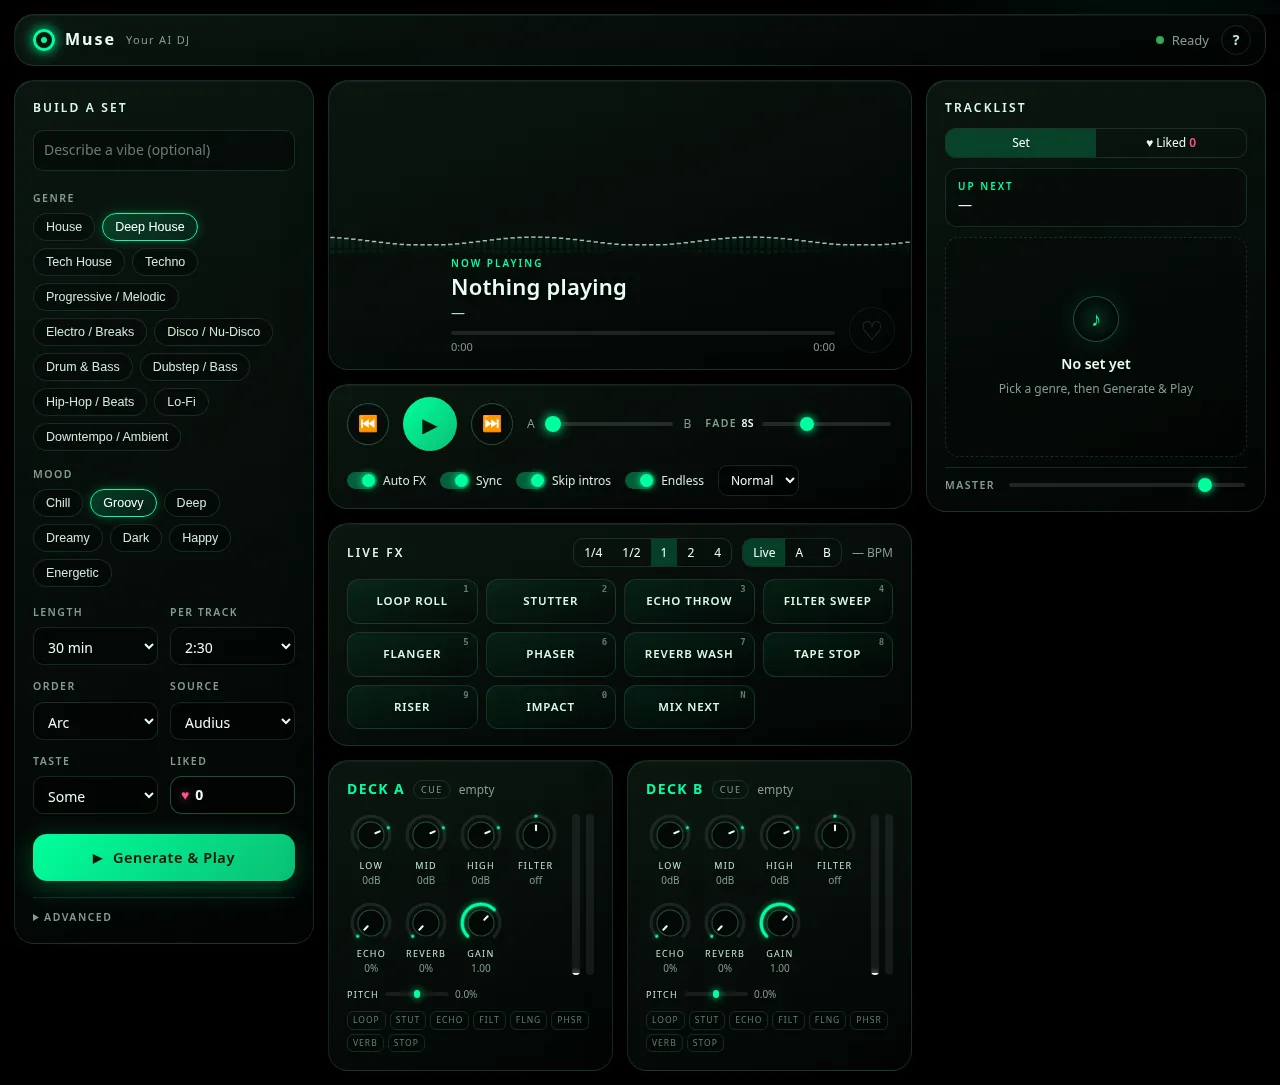
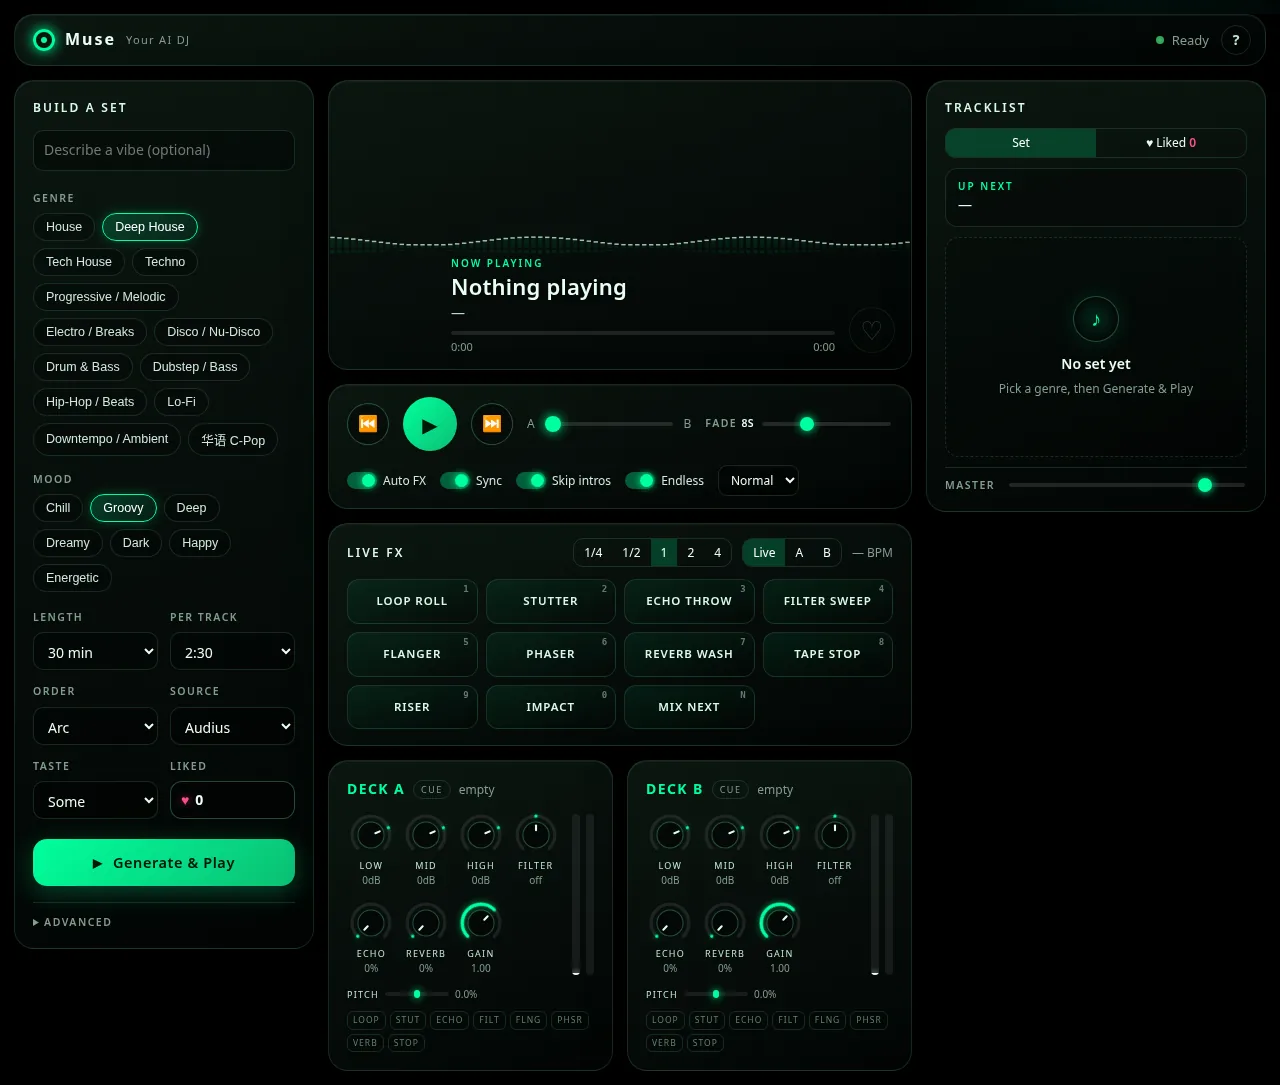
Add 华语 C-Pop genre: Chinese hits via Kugou, relaxed chart scoring, steering + likes support

Changed region(s): [[0.0312, 0.3954, 0.2188, 0.8516], [0.1562, 0.3954, 0.1875, 0.4258]]

diff --git a/app.js b/app.js
@@ -50,6 +50,9 @@ const GENRES = {
                   seeds: ['lofi beats', 'jazzhop', 'tape', 'dusty', 'chillhop', 'vinyl', 'rainy', 'mellow'] },
   'downtempo':  { label: 'Downtempo / Ambient', zh: '氛围', bpm: [80, 112],
                   seeds: ['downtempo', 'trip hop', 'organic', 'chillout', 'balearic', 'dub', 'ethereal', 'ambient'] },
+  // Chinese-language pop: popular hits wanted (hits: anti-chart scoring relaxed), dug from Chinese sources first (cn: true)
+  'cpop':       { label: '华语 C-Pop', zh: '华语流行 · R&B · 国风 · 粤语 · 说唱', bpm: [66, 132], hits: true, cn: true,
+                  seeds: ['c-pop', 'mandopop', 'chinese pop', 'cantopop', 'chinese r&b', 'guofeng', 'chinese hip hop', '华语'] },
 };
 /* ---------- curated crate: moods ---------- */
 const MOODS = {
@@ -73,6 +76,7 @@ const PROMPT_MAP = [
   [/chill|relax|mellow|放松|休闲|轻松|安静/i, 'm', 'chill'], [/groov|funky|律动|摇摆/i, 'm', 'groovy'], [/deep|late.?night|深夜|深邃|午夜/i, 'm', 'deep'],
   [/dream|ethereal|梦|空灵/i, 'm', 'dreamy'], [/dark|暗|黑暗|阴郁/i, 'm', 'dark'], [/happy|sunny|summer|uplift|快乐|开心|阳光|夏天/i, 'm', 'happy'],
   [/energ|hard|peak|rave|party|燃|嗨|派对|激烈|蹦迪/i, 'm', 'energetic'],
+  [/华语|中文|国语|c-?pop|mandopop|cantopop|粤语|国风|古风|中国风|chinese/i, 'g', 'cpop'],
 ];
 
 /* ---------- taste filter ---------- */
@@ -96,17 +100,17 @@ function tasteScore(t, ctx) {
   else if (lp < 2) s -= 0.2;
   else if (lp <= 4.7) s += 1;        // ~100 .. 50k plays: the "deeper cuts" sweet spot
   else if (lp <= 5.6) s += 0.2;
-  else s -= 1.4;                     // > ~400k: viral / chart territory
+  else if (!ctx.hits) s -= 1.4;      // > ~400k: viral / chart territory (wanted for hit genres like 华语)
   const love = ((sg.likes || 0) + 1.5 * (sg.reposts || 0)) / (p + 25);
   s += clamp(love * 18, 0, 1.3);     // engagement ratio = listeners actually liked it
   const f = sg.followers || 0;
-  if (f > 400000) s -= 0.7; else if (f < 60000) s += 0.3;
+  if (f > 400000) { if (!ctx.hits) s -= 0.7; } else if (f < 60000) s += 0.3;
   let hits = 0; for (const k of ctx.seedTerms) if (blob.includes(k)) hits++;
   s += Math.min(1.6, hits * 0.4);
   if (ctx.genreSet.has(t.genre)) s += 0.8; else if (ctx.genreSet.size) s -= 0.6;
   if (ctx.moodSet.size && t.mood) s += ctx.moodSet.has(t.mood) ? 0.7 : -0.15;
   const aname = sg.artistName ?? t.artist ?? '';
-  if (MAINSTREAM.test(title) || MAINSTREAM.test(aname)) s -= 1.3;   // chart bait / pop re-rubs
+  if (!ctx.hits && (MAINSTREAM.test(title) || MAINSTREAM.test(aname))) s -= 1.3;   // chart bait / pop re-rubs
   const uname = aname.toLowerCase();
   if (ctx.genrePhrases.some(gp => uname.includes(gp)) || /music|records? ?label|beats|official/i.test(uname) && /\d{3,}/.test(uname)) s -= 0.8;   // channel-style uploaders
   if (SOFT_PENALTY.test(title) && !ctx.allowEdits) s -= 0.35;
@@ -190,6 +194,7 @@ async function aiExpand(genres, moods, prompt) {
 }
 
 /* ---------- crate digging ---------- */
+const CN_PREFERRED = 'kugou';   // Chinese source used for 华语 when the picked source isn't Chinese
 function parsePrompt(text) {
   const g = new Set(), m = new Set(); let rest = text || '';
   for (const [re, kind, id] of PROMPT_MAP) if (re.test(rest)) { (kind === 'g' ? g : m).add(id); }
@@ -199,7 +204,8 @@ function parsePrompt(text) {
   return { g: [...g], m: [...m], words: words.slice(0, 4).map(w => w.toLowerCase()) };
 }
 
-async function digCrates({ genres, moods, prompt, need, source, onStatus, taste }) {
+async function digCrates(args) {
+  let { genres, moods, prompt, need, source, onStatus, taste } = args;
   const P = parsePrompt(prompt);
   const prov = Providers.resolve(source);
   if (!prov) throw new Error('no music provider registered');
@@ -210,13 +216,24 @@ async function digCrates({ genres, moods, prompt, need, source, onStatus, taste 
   if (TP && !genres.length && !moods.length && !String(prompt || '').trim()) genres = T.genresFor(prov, TP);   // nothing picked: start from what you liked
   if (!genres.length) { const s = new Set(); moods.forEach(m => (MOOD_FALLBACK_GENRES[m] || []).slice(0, 2).forEach(g => s.add(g))); genres = s.size ? [...s] : ['deep-house']; }
   if (!moods.length && !genres.length) moods = ['groovy'];
+  // Chinese genres (华语) want a Chinese catalogue: try the picked source if it is one (e.g. QQ in mainland China), then
+  // Kugou (plays worldwide); if both come back empty, carry on with the picked source (Audius: Chinese seed terms).
+  if (genres.some(g => GENRES[g].cn) && !args._cn) {
+    const tries = [prov.keywords ? prov.id : null, CN_PREFERRED].filter((x, i, a) => x && Providers.get(x) && a.indexOf(x) === i);
+    let best = null;
+    for (const id of tries) {
+      try { const r = await digCrates({ ...args, genres, moods, source: id, _cn: true }); if (r.tracks.length >= Math.min(need, 4)) return r; if (r.tracks.length && (!best || r.tracks.length > best.tracks.length)) best = r; }
+      catch (e) { console.warn(`${Providers.get(id).name}: no Chinese tracks`, e); }
+    }
+    if (best) return best;   // a short Chinese set beats none; endless mode keeps digging
+  }
   const aiWords = await aiExpand(genres, moods, prompt);
   const srcGenres = Providers.mapGenres(prov, genres);   // provider's own genre / mood filter vocabulary
   const srcMoods = Providers.mapMoods(prov, moods);
   const moodWords = moods.flatMap(m => MOODS[m].words);
   const seedTerms = new Set([...genres.flatMap(g => GENRES[g].seeds), ...moodWords, ...P.words, ...aiWords].map(s => s.toLowerCase()));
   const bpmRanges = genres.map(g => GENRES[g].bpm); BPM_HOME = bpmRanges;
-  const ctx = { seedTerms, bpmRanges, genreSet: new Set(srcGenres), moodSet: new Set(srcMoods), allowEdits: genres.includes('disco'),
+  const ctx = { hits: genres.some(g => GENRES[g].hits), seedTerms, bpmRanges, genreSet: new Set(srcGenres), moodSet: new Set(srcMoods), allowEdits: genres.includes('disco'),
     genrePhrases: [...new Set([...srcGenres, 'lofi', 'lo-fi', 'deep house', 'techno', 'house music', 'hip hop', 'drum and bass'].map(x => x.toLowerCase()))].filter(x => x.length > 3) };
   const info = { genres, moods };
 
@@ -305,25 +322,40 @@ async function digSimple(prov, genres, moods, words, need, onStatus, tx = null) 
   const full = prov.capabilities.fullTrack;
   onStatus(`Searching ${prov.name}…`);
   if (prov.init) await prov.init();
-  const qs = [], KW = prov.keywords;
+  const qs = [], KW = prov.keywords, gOf = new Map();   // gOf: query -> app genre that asked for it
+  const add = (q, g) => { q = q.trim(); if (!q || gOf.has(q)) return; gOf.set(q, g); qs.push(q); };
   if (KW && KW.genres) {   // provider vocabulary (e.g. Chinese + English terms for CN platforms)
-    for (const g of genres) { const terms = shuffle(KW.genres[g] || [GENRES[g].label]); terms.slice(0, 3).forEach((s, i) => qs.push(s + (moods[0] && i === 1 && KW.moods && KW.moods[moods[0]] ? ' ' + pick(KW.moods[moods[0]]) : ''))); }
-  } else for (const g of genres) { const G = GENRES[g]; shuffle(G.seeds).slice(0, 3).forEach(s => qs.push(s + (moods[0] ? ' ' + pick(MOODS[moods[0]].words) : ''))); }
-  words.slice(0, 3).forEach(w => qs.push(w));
-  if (tx) tx.T.seedQueries(tx.TP, tx.taste, shuffle).forEach(q => qs.push(q));
-  let res = (await pool(qs, 3, q => prov.search(q))).flat().filter(Boolean);
+    for (const g of genres) {
+      const terms = shuffle(KW.genres[g] || [GENRES[g].label]), fl = KW.flavors && KW.flavors[g], artists = KW.artists && KW.artists[g];
+      if (fl && moods.length) { moods.forEach(m => shuffle(fl[m] || []).slice(0, 2).forEach(q => add(q, g))); terms.slice(0, 2).forEach(q => add(q, g)); }
+      else terms.slice(0, GENRES[g].hits ? 4 : 3).forEach((t, i) => add(t + (moods[0] && i === 1 && !GENRES[g].hits && KW.moods && KW.moods[moods[0]] ? ' ' + pick(KW.moods[moods[0]]) : ''), g));
+      if (artists) shuffle(artists).slice(0, 6).forEach(q => add(q, g));   // hit genres: popular artists' catalogues
+    }
+  } else for (const g of genres) { const G = GENRES[g]; shuffle(G.seeds).slice(0, 3).forEach(s => add(s + (moods[0] ? ' ' + pick(MOODS[moods[0]].words) : ''), g)); }
+  words.slice(0, 3).forEach(w => add(w, null));
+  if (tx) tx.T.seedQueries(tx.TP, tx.taste, shuffle).forEach(q => add(q, null));
+  const tag = (q, list) => { const g = gOf.get(q); if (g) list.forEach(t => { if (!t.genre) t.genre = GENRES[g].label; t._g = g; }); return list; };
+  let res;
+  if ((prov.capabilities.searchConcurrency || 3) === 1) {   // throttling source: one search at a time, stop once the crate is deep enough
+    res = []; const enough = need * (genres.some(g => GENRES[g].hits) ? 6 : 4);
+    for (const q of qs) { try { res.push(...tag(q, await prov.search(q))); } catch (e) { } if (res.filter(t => t.playable !== false).length >= enough) break; }
+  } else res = (await pool(qs, 3, q => prov.search(q).then(list => tag(q, list)))).flat().filter(Boolean);
   if (tx) res = res.concat(await digSimilar(prov, tx.likes, tx.TM, onStatus)).filter(t => !tx.TP.ids.has(tx.T.Likes.key(t)));
   const beatsy = genres.some(g => g === 'hiphop' || g === 'lofi' || g === 'downtempo');
   const offGenre = /^(rock|pop|soundtrack|country|singer\/songwriter|alternative|christian.*|children.*|holiday|vocal|classical|latino|k-pop|j-pop|metal|easy listening)$/i;
   const lazy = typeof prov.resolveStream === 'function';   // stream URL fetched per track (signed / expiring / maybe not free)
-  const m = new Map(); res.forEach(t => { if (t.playable !== false && (t.url || lazy) && (t.fullDur ?? t.dur ?? 0) > 120 && !m.has(t.id) && !HARD_REJECT.test(t.title || '') && !MAINSTREAM.test((t.artist || '') + ' ' + t.title) && (beatsy || !offGenre.test(t.genre || ''))) m.set(t.id, t); });
+  const NOT_ORIGINAL = /\bdj\b|dj版|remix|伴奏|纯音乐|钢琴版|八音盒|合唱版|群星|铃声|片段|抖音|翻唱|翻自|\bcover\b|加速|降调|0\.\d+x|\b(slowed|sped)\b|女版|男版|live版|串烧/i;   // hit genres: originals only
+  const fanUpload = t => { const A = KW && KW.artists && KW.artists[t._g]; return /《.+》/.test(t.title) || !!(A && A.some(a => t.title.includes(a) && !(t.artist || '').includes(a))); };   // "<artist> (song)" re-uploads
+  const m = new Map(); res.forEach(t => { if (t._g && GENRES[t._g].hits && (NOT_ORIGINAL.test(t.title + ' ' + (t.artist || '')) || fanUpload(t))) return; if (t.playable !== false && (t.url || lazy) && (t.fullDur ?? t.dur ?? 0) > 120 && !m.has(t.id) && !HARD_REJECT.test(t.title || '') && !MAINSTREAM.test((t.artist || '') + ' ' + t.title) && (beatsy || !offGenre.test(t.genre || ''))) m.set(t.id, t); });
   const per = new Map(), out = [];
   let order = shuffle([...m.values()]);
+  if (genres.some(g => GENRES[g].hits)) order = order.map(t => ({ t, s: (t._g && GENRES[t._g].hits ? Math.log10((t.plays || 0) + 1) * 0.4 : 2) + rng() * 1.5 })).sort((a, b) => b.s - a.s).map(x => x.t);   // popular first, with variety
   if (tx) order = order.map(t => ({ t, s: tx.TM.w * tx.T.similarity(t, tx.TP) + rng() * 0.6 })).sort((a, b) => b.s - a.s).map(x => x.t);   // lean toward the ♥ profile
+  const hitsWanted = genres.some(g => GENRES[g].hits);   // hit catalogues are partly paid: try more picks
   if (lazy) {   // confirm each pick actually has a free stream before it enters the set
-    const picks = []; for (const t of order) { const c = per.get(t.artistId) || 0; if (c) continue; per.set(t.artistId, 1); picks.push(t); }
+    const picks = []; for (const t of order) { const c = per.get(t.artistId) || 0; if (c >= (hitsWanted ? 2 : 1)) continue; per.set(t.artistId, c + 1); picks.push(t); }   // hit genres: up to 2 per artist
     let i = 0, tried = 0;
-    const worker = async () => { while (out.length < need && i < picks.length && tried < need * 4) { const t = picks[i++]; tried++;
+    const worker = async () => { while (out.length < need && i < picks.length && tried < need * (hitsWanted ? 6 : 4)) { const t = picks[i++]; tried++;
       try { await prov.resolveStream(t); if (t.url && t.playable !== false && out.length < need) out.push(finalizeTrack(t)); } catch (e) { } } };
     await Promise.all(Array.from({ length: prov.capabilities.resolveConcurrency || 4 }, worker));
     if (!out.length && picks.length) throw new Error(prov.name + ': no free streams available here');
@@ -1480,6 +1512,7 @@ function draw() {
 
 /* ---- init ---- */
 function init() {
+  Providers.list().forEach(p => { if (p.keywords) for (const g in GENRES) if (!p.genreFilters[g]) p.genreFilters[g] = [GENRES[g].label]; });
   buildChips(); buildSources(); buildPads(); loadOpts(); renderList(); bindLikes();
   buildDeckShell($('#deckA'), 'A'); buildDeckShell($('#deckB'), 'B');
   if (!Providers.usable().some(p => p.id === opt('source').value)) opt('source').value = Providers.defaultId;   // stale / removed provider id

diff --git a/providers/kugou.js b/providers/kugou.js
@@ -3,8 +3,8 @@
  *  - stream:  m.kugou.com/app/i/getSongInfo.php?cmd=playInfo (JSONP) -> https://sharefs.kugou.com/… mp3
  *             The audio CDN answers with Access-Control-Allow-Origin: * and supports Range, so the mixer can
  *             analyse and route it through Web Audio like any other source.
- *  - only what Kugou serves for free to an anonymous listener: VIP-only songs (Privilege 10 / no URL /
- *    pay_type set) are skipped, no login, no paid quality tiers. Standard 128 kbps only.
+ *  - only what Kugou serves for free to an anonymous listener: paid songs (music-pack flag in search, or
+ *    no URL / pay_type / privilege 10 in play info) are skipped, no login, no paid quality tiers. Standard 128 kbps only.
  *  - no BPM / key metadata: the app's in-browser analysis fills tempo and beat phase ('simple' crate). */
 (function () {
   'use strict';
@@ -14,13 +14,16 @@
 
   const Kugou = {
     id: 'kugou', name: 'Kugou', label: 'Kugou 酷狗', hint: 'Free full tracks · no account', fallback: 'audius',
-    capabilities: { fullTrack: true, hasBpmKey: false, rangeRequests: true, filters: false, trending: false, crate: 'simple', resolveConcurrency: 2, rateLimited: true },
+    capabilities: { fullTrack: true, hasBpmKey: false, rangeRequests: true, filters: false, trending: false, crate: 'simple', resolveConcurrency: 2, searchConcurrency: 1, rateLimited: true },   // parallel searches come back empty,
     keywords: CN.KEYWORDS,
+    stats: { free: 0, paid: 0, noAnswer: 0 }, _lastSearch: 0,   // resolve outcomes (debugging / tests)
     async search(term, { limit = 30 } = {}) {
       const u = 'https://songsearch.kugou.com/song_search_v2?keyword=' + encodeURIComponent(term) + `&page=1&pagesize=${limit}&platform=WebFilter&format=jsonp`;
-      let r = await jsonp(u, { timeout: 10000 });
-      // the search API occasionally answers an empty page under load: one quiet retry
-      if (!(r && r.data && r.data.lists && r.data.lists.length)) { await P.net.sleep(600 + Math.random() * 600); r = await jsonp(u, { timeout: 10000 }).catch(() => r); }
+      // the search API answers empty pages when hit in bursts: keep searches ~0.5 s apart, retry an empty page once
+      const gap = 500 - (Date.now() - this._lastSearch); if (gap > 0) await P.net.sleep(gap);
+      this._lastSearch = Date.now();
+      let r = await jsonp(u, { timeout: 10000 }).catch(() => null);
+      if (!(r && r.data && r.data.lists && r.data.lists.length)) { await P.net.sleep(1200 + Math.random() * 600); this._lastSearch = Date.now(); r = await jsonp(u, { timeout: 10000 }).catch(() => r); }
       return ((r && r.data && r.data.lists) || []).filter(s => s && s.FileHash).map(s => this.toTrack(s, term));
     },
     getStreamUrl(track) { return track.url || ''; },
@@ -34,6 +37,7 @@
       // no answer / no URL without a "paid" flag = usually throttling after a burst: back off once and ask again
       if (!(r && r.url) && !(r && (r.pay_type || (r.privilege | 0) >= 10))) { await P.net.sleep(900 + Math.random() * 900); r = await ask(); }
       const url = r && r.url ? CN.https(r.url) : '';
+      this.stats[r && r.url && !r.pay_type && (r.privilege | 0) < 10 ? 'free' : r && (r.pay_type || (r.privilege | 0) >= 10) ? 'paid' : 'noAnswer']++;
       if (!url || r.pay_type || (r.privilege | 0) >= 10) { if (r && (r.url || r.pay_type || (r.privilege | 0) >= 10)) cache.set(track.hash, { bad: true, at: Date.now() }); track.playable = false; track.url = ''; throw new Error('Kugou: not free to stream'); }
       track.url = url; track.alt = (r.backup_url && r.backup_url[0]) ? CN.https(r.backup_url[0]) : null; track._resolvedAt = Date.now();
       if (r.timeLength) track.dur = +r.timeLength;
@@ -48,8 +52,10 @@
       return P.normalize({ src: 'kugou', id: 'kg' + String(s.FileHash).toLowerCase(), hash: s.FileHash, title, artist: CN.stripTags(s.SingerName) || 'Unknown',
         artistId: singer.id || CN.stripTags(s.SingerName), art: img.replace('{size}', '400'), artSmall: img.replace('{size}', '150'),
         dur: +s.Duration || 0, preview: false, bpm: null, key: null, genre: '', mood: '', tags: [term, s.trans_param && s.trans_param.language].filter(Boolean).join(', '),
-        url: '', link: 'https://www.kugou.com/yy/html/search.html#searchType=song&searchKeyWord=' + encodeURIComponent(title), plays: 0, prior: CN.prior(term),
-        playable: (s.Privilege | 0) < 10, signals: { tags: term || '' } });
+        url: '', link: 'https://www.kugou.com/yy/html/search.html#searchType=song&searchKeyWord=' + encodeURIComponent(title), plays: +s.OwnerCount || 0, prior: CN.prior(term),
+        // musicpack_advance = 1: needs Kugou's music pack (paid); Privilege 5 is almost always unavailable too.
+        // Filtering here saves a play-info request per paid song; resolveStream() still has the final say.
+        playable: !(s.trans_param && s.trans_param.musicpack_advance === 1) && (s.Privilege | 0) !== 5, signals: { tags: term || '' } });
     },
   };
   P.register(Kugou);

diff --git a/providers/cn-common.js b/providers/cn-common.js
@@ -18,6 +18,20 @@
       'hiphop':      ['instrumental hip hop', '嘻哈 伴奏', 'boom bap', 'jazz rap'],
       'lofi':        ['lofi', 'lo-fi', '低保真', 'lofi 学习', 'chillhop'],
       'downtempo':   ['downtempo', 'chillout', '氛围音乐', 'trip hop', 'ambient'],
+      'cpop':        ['华语流行', '华语 热歌', '华语金曲', '华语 经典', '华语R&B', '国风', '粤语 经典', '华语说唱', '民谣', '华语 新歌', '华语 原创', '综艺 live'],
+    },
+    // 华语 sub-flavours picked by mood (one chip, mood chips choose the flavour)
+    flavors: {
+      'cpop': {
+        'chill': ['华语 抒情', '民谣', '华语 治愈'], 'groovy': ['华语R&B', '华语 R&B 律动', '华语 放克'], 'deep': ['粤语 经典', '华语 深情', '粤语 抒情'],
+        'dreamy': ['国风', '古风', '中国风'], 'dark': ['华语说唱', '中文说唱', '华语 摇滚'], 'happy': ['华语 甜歌', '华语流行', '华语 热歌'],
+        'energetic': ['华语说唱', '华语 摇滚', '华语 热歌'],
+      },
+    },
+    // popular artists' catalogues for hit-seeking genres (search terms only; what plays is whatever the platform serves free)
+    artists: {
+      'cpop': ['周杰伦', '林俊杰', '陈奕迅', '邓紫棋', '薛之谦', '李荣浩', '毛不易', '周深', '王菲', '孙燕姿', '五月天', '蔡依林', '张学友', '汪苏泷',
+        '莫文蔚', '陶喆', '王力宏', '田馥甄', '张惠妹', '华晨宇', '许嵩', '李健', '赵雷', '朴树', '告五人', '单依纯', '张杰', '梁静茹', '方大同', '容祖儿', '杨千嬅', '刘惜君'],
     },
     moods: {
       'chill': ['chill', '放松'], 'groovy': ['groove', '律动'], 'deep': ['deep', '深夜'], 'dreamy': ['dreamy', '梦幻'],

diff --git a/providers/registry.js b/providers/registry.js
@@ -74,6 +74,7 @@
     crate: 'simple',        // 'scored' = rich popularity signals -> full taste filter + trending top-up;
                             // 'simple' = shuffle + one-per-artist dig with basic reject rules (preview catalogues)
     rateLimited: false,     // informational: source is known to answer HTTP 429 under bursts
+    searchConcurrency: 3,   // parallel search() calls in a 'simple' crate dig
     resolveConcurrency: 4,  // parallel resolveStream() calls while a 'simple' crate confirms picks (lower for throttling sources)
   };
 

diff --git a/README.md b/README.md
@@ -22,6 +22,7 @@
 - **像真人 DJ 一样 ride 参数**：两次转场之间按乐句做克制的 EQ、滤波、增益、回声 / 混响动作；旋钮、电平、推子、音调和效果灯全部实时动画显示，随时可以手动接管（拖动旋钮，双击复位）。
 - **现场效果垫**：按住 / 点按或键盘 1–9、0、N 触发，效果标签带进度条，垫子随节拍闪动。
 - **♥ 红心与口味**：给喜欢的歌点 ♥，之后的歌单会向你的口味靠拢（关 / 适中 / 强）；支持导出 / 导入。
+- **华语 C-Pop 类别**：华语流行、R&B、国风、粤语、说唱的热门歌曲（用情绪选子风格），优先从酷狗挖歌（海外也能播），对这个类别放宽“反爆款”规则；只选原唱，排除 DJ 版、伴奏和翻唱。
 - **播放中换风格**：中途切换曲风 / 情绪，约 1.5 秒后自动重新挖歌，保留当前和下一首，用 BRIDGE 过渡曲平滑转到新风格。
 - **多音源**：
 
@@ -68,6 +69,7 @@ python3 -m http.server 8000      # 打开 http://localhost:8000
 
 - Audius 是独立音乐人平台，不是商业榜单；音质和风格参差不齐，频繁生成可能被限流。
 - 拍点和乐句对齐是估算，偶尔会有转场漂移或没落在乐句上。
+- 华语大热歌曲很多是酷狗付费歌曲，会被跳过；能播的是平台免费提供的那部分。连续多次生成时酷狗可能暂时限流，歌单会变短（无限模式会继续补歌）。
 - 国内平台没有 BPM / 调性数据（由浏览器自行测量），搜索结果相关性一般，可能混入"DJ 版"流行歌。
 - 网易云经代理访问时，平台按代理 IP 判断地区，海外代理只能播放部分歌曲。
 

diff --git a/docs/DETAILS.md b/docs/DETAILS.md
@@ -59,6 +59,13 @@ If a source finds nothing playable, the set comes from Audius instead. No logins
   One track per artist still applies. If no genre/mood/prompt is picked, the set starts from your most-liked genres.
 - All scripted and deterministic. Works through the provider interface, so it carries over to new sources.
 
+## 华语 / C-Pop
+One genre chip for Chinese-language pop hits; the mood picks the flavour (chill → ballads/folk, groovy → R&B, deep → Cantonese classics,
+dreamy → 国风, dark/energetic → rap/rock, happy → pop). Hits are wanted here, so the anti-chart penalties are off for it. With a
+non-Chinese source selected, the dig goes to Kugou (QQ first if QQ is the source); originals only (no DJ edits, karaoke, covers,
+re-uploads). Kugou's paid songs (music-pack flag) are skipped before any request. If Kugou finds nothing, Audius is searched
+with Chinese terms.
+
 ## Steering a playing set (换风格不用重来)
 Change the Genre / Mood chips while a set is playing — no need to press Generate. After ~1.5 s Muse digs the
 new selection in the background ("Shifting to Tech House…"), keeps the playing track and the already-cued next

diff --git a/providers/README.md b/providers/README.md
@@ -50,5 +50,5 @@ decks and mixer only ever see the normalized `Track` shape, so adding a source (
 Rules every CN provider follows: only what the platform streams for free to an anonymous listener; skip VIP /
 paid / trial-only songs; no login, cookies, region spoofing or third-party "unlock" mirrors.
 Lazy stream URLs: these providers implement `resolveStream()`; the 'simple' crate resolves picks until it has
-enough free ones (and throws if none → fallback). New optional provider hooks: `keywords`, `available()`, `hint`;
+enough free ones (and throws if none → fallback). New optional provider hooks: `keywords` (genres, moods, plus `flavors` and `artists` per genre for 华语), `available()`, `hint`;
 `NEONDJ.providers.net.jsonp()` and `NEONDJ.providers.settings` are shared helpers.
